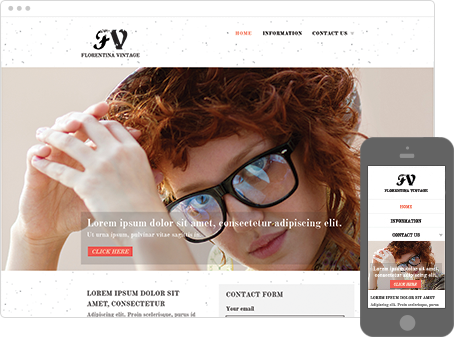
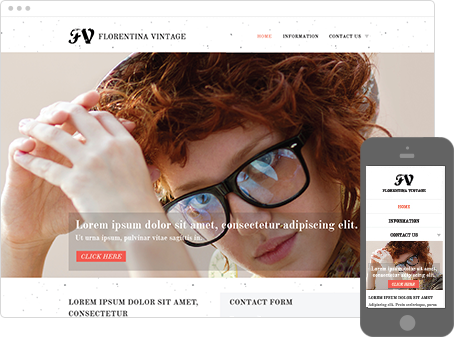
updated template

diff --git a/stylesheet.less b/stylesheet.less
@@ -18,7 +18,7 @@ body {
 }
 
 a {
-  font-family:@font-swatch2-font-family;
+  font-family:@font-swatch5-font-family;
   font-size:@font-swatch5-font-size;
   font-weight:@font-swatch5-font-weight;
   color:@color-swatch3;
@@ -132,10 +132,7 @@ ul, ol, li {
 
 ul, ol, li {
 list-style-type: square;
-
 }
-
-
 
 
 /* ===============================
@@ -184,10 +181,14 @@ header {
   text-decoration: none;
 }
 
-.widget.companyname h1 {
-  margin: 0;
-  padding: 0;
-  letter-spacing: -1px;
+.widget.companyname a {
+  font-family:@font-swatch10-font-family;
+  font-weight: @font-swatch10-font-weight;
+  color: @font-swatch10-color;
+  line-height:@font-swatch10-line-height;
+  letter-spacing: @font-swatch10-letter-spacing;
+  font-size: @font-swatch10-font-size;
+  background-color: @color-swatch1;
 }
 
 /* LOGO */
@@ -340,7 +341,7 @@ footer p {
 
 .widget.extendednavigation ul li:hover {
   color: @font-swatch6-color;
-  background-color: @font-swatch6-background-color;
+  background-color: none;
 }
 
 .widget.extendednavigation ul li a, .widget.extendednavigation ul li.folder .text {
@@ -396,7 +397,7 @@ footer p {
   display: block;
   width: 186px;
   position: absolute;
-  background-color: @font-swatch6-background-color;
+  background-color: @color-swatch1;
   z-index: 500;
   margin-top: 0;
 }
@@ -406,6 +407,10 @@ footer p {
   width: 100%;
   text-align: left;
   border-bottom: 1px solid @color-swatch5;
+}
+
+.widget.extendednavigation li:hover > ul > li:last-child {
+  border-bottom: none;
 }
 
 .widget.extendednavigation li:hover > ul > li > a {
@@ -788,6 +793,7 @@ footer p {
     position: relative;
     width: 33.3%;
     padding-bottom: 33%;
+    list-style-type: none;
 }
 
 .widget.gallery li  span.inner {
